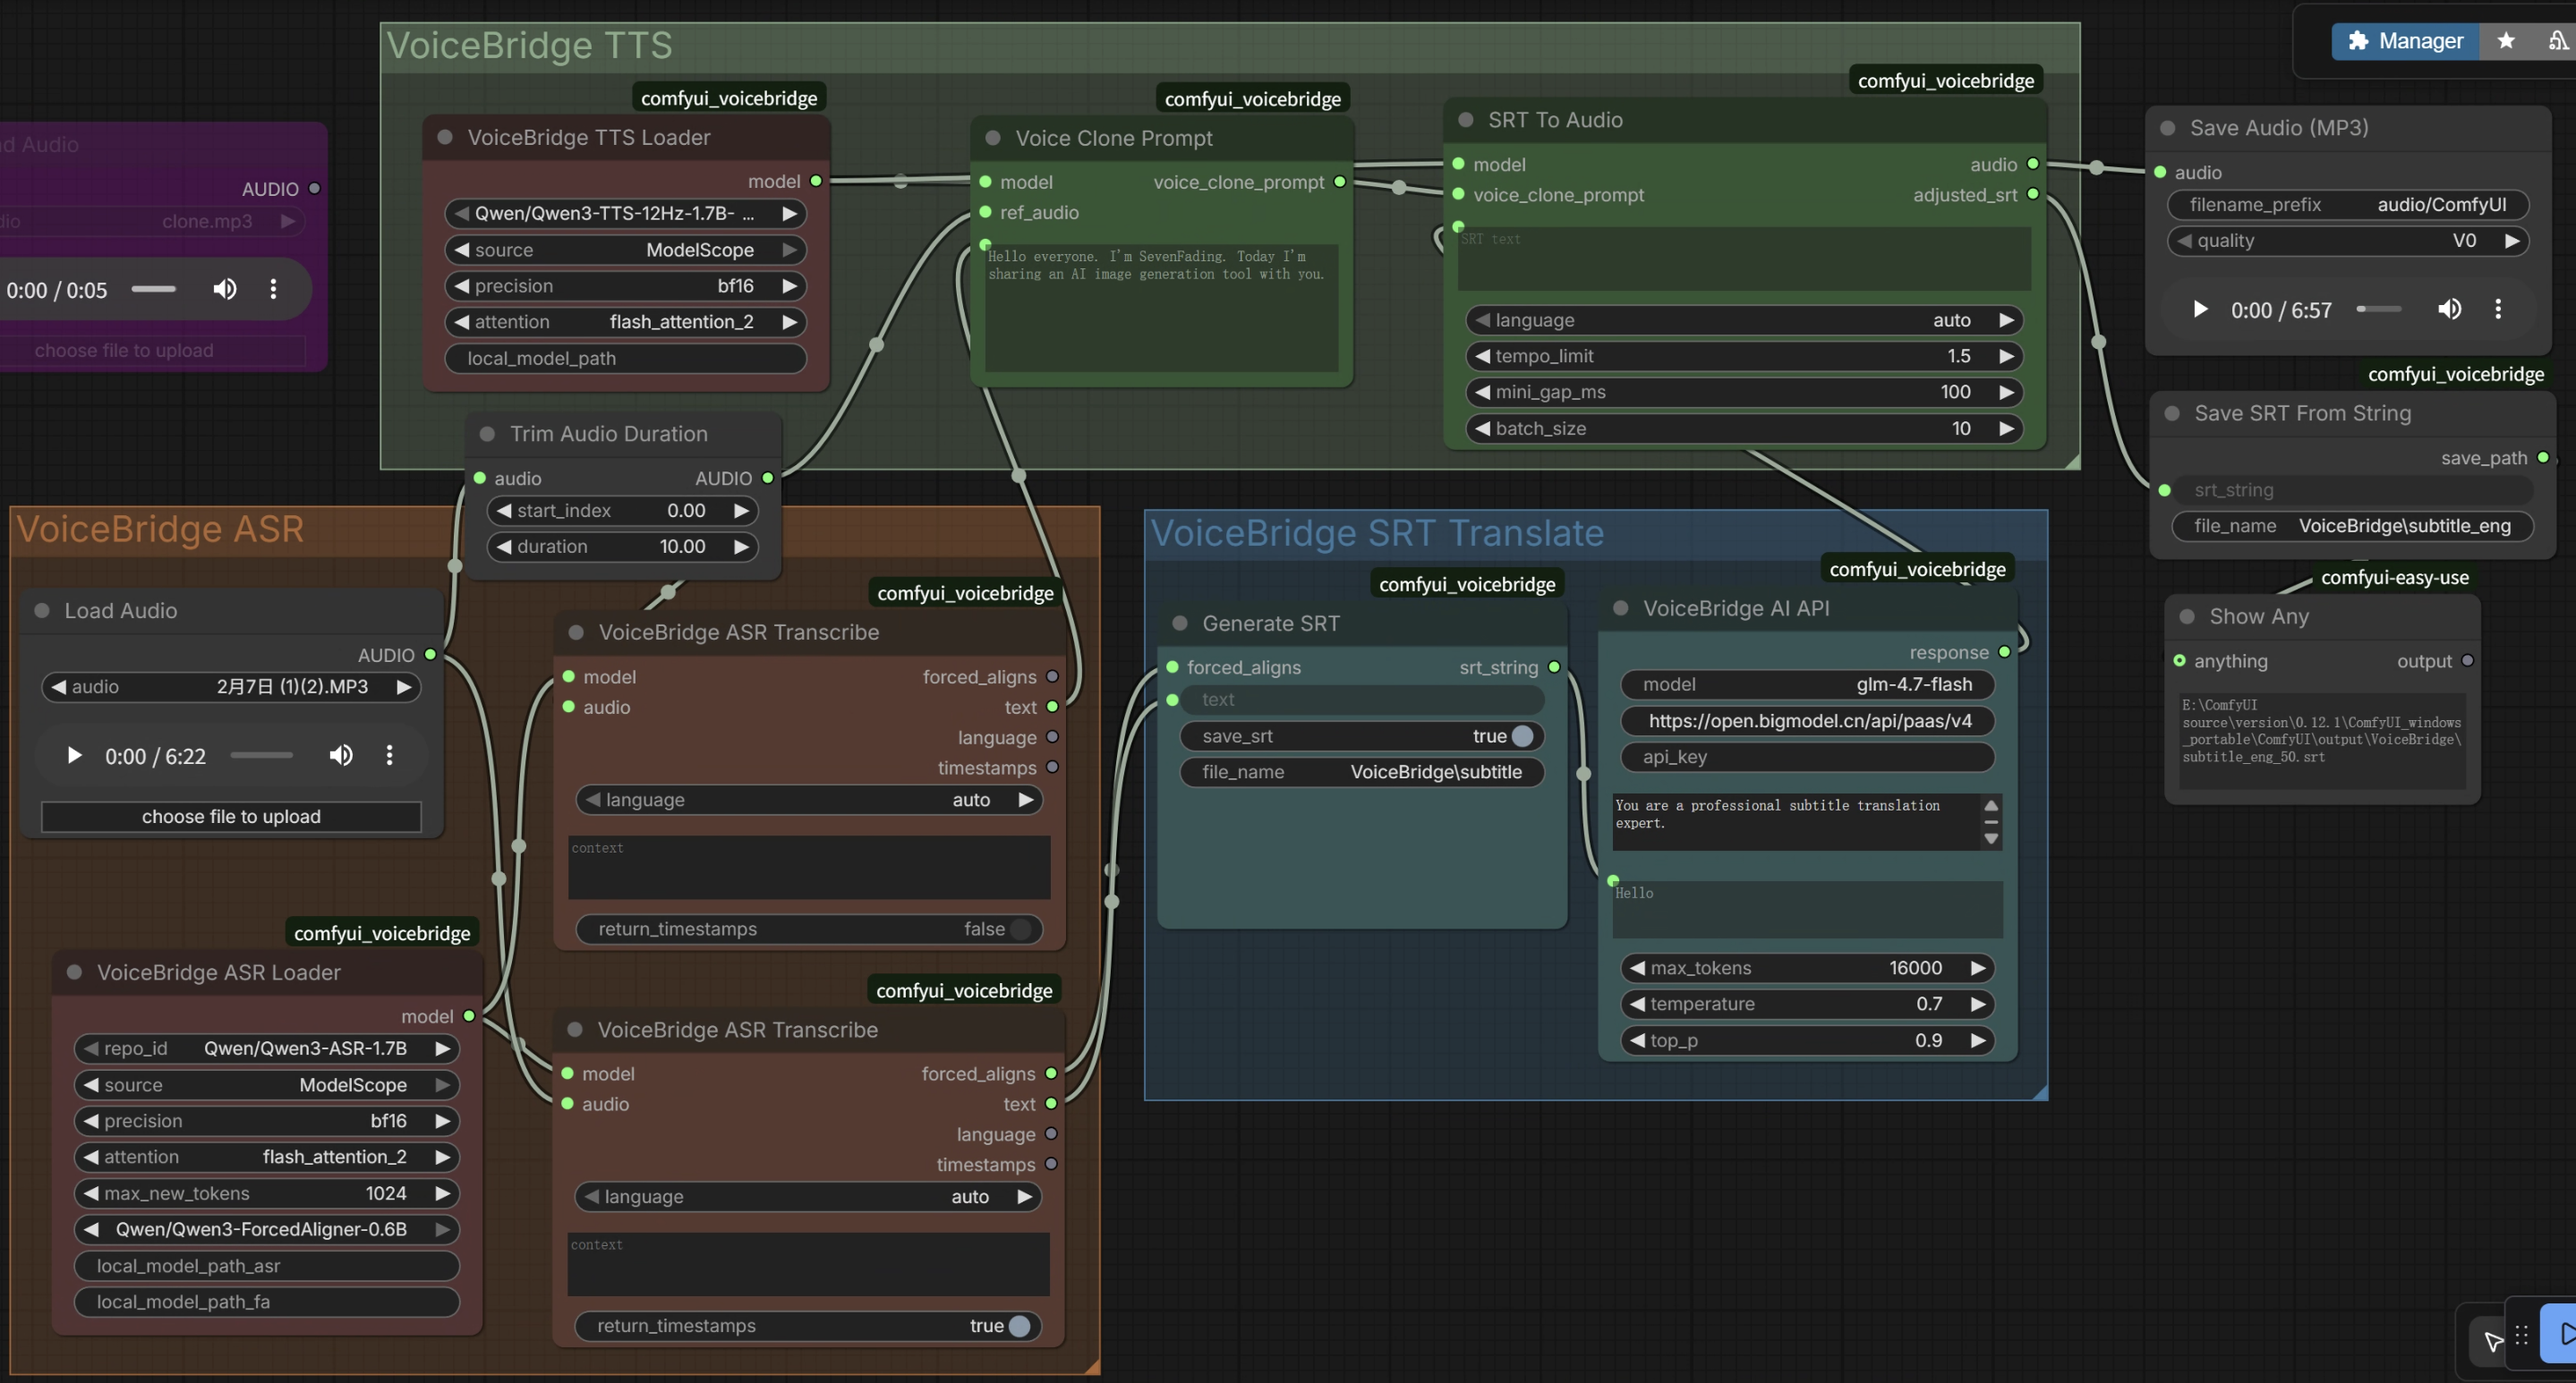
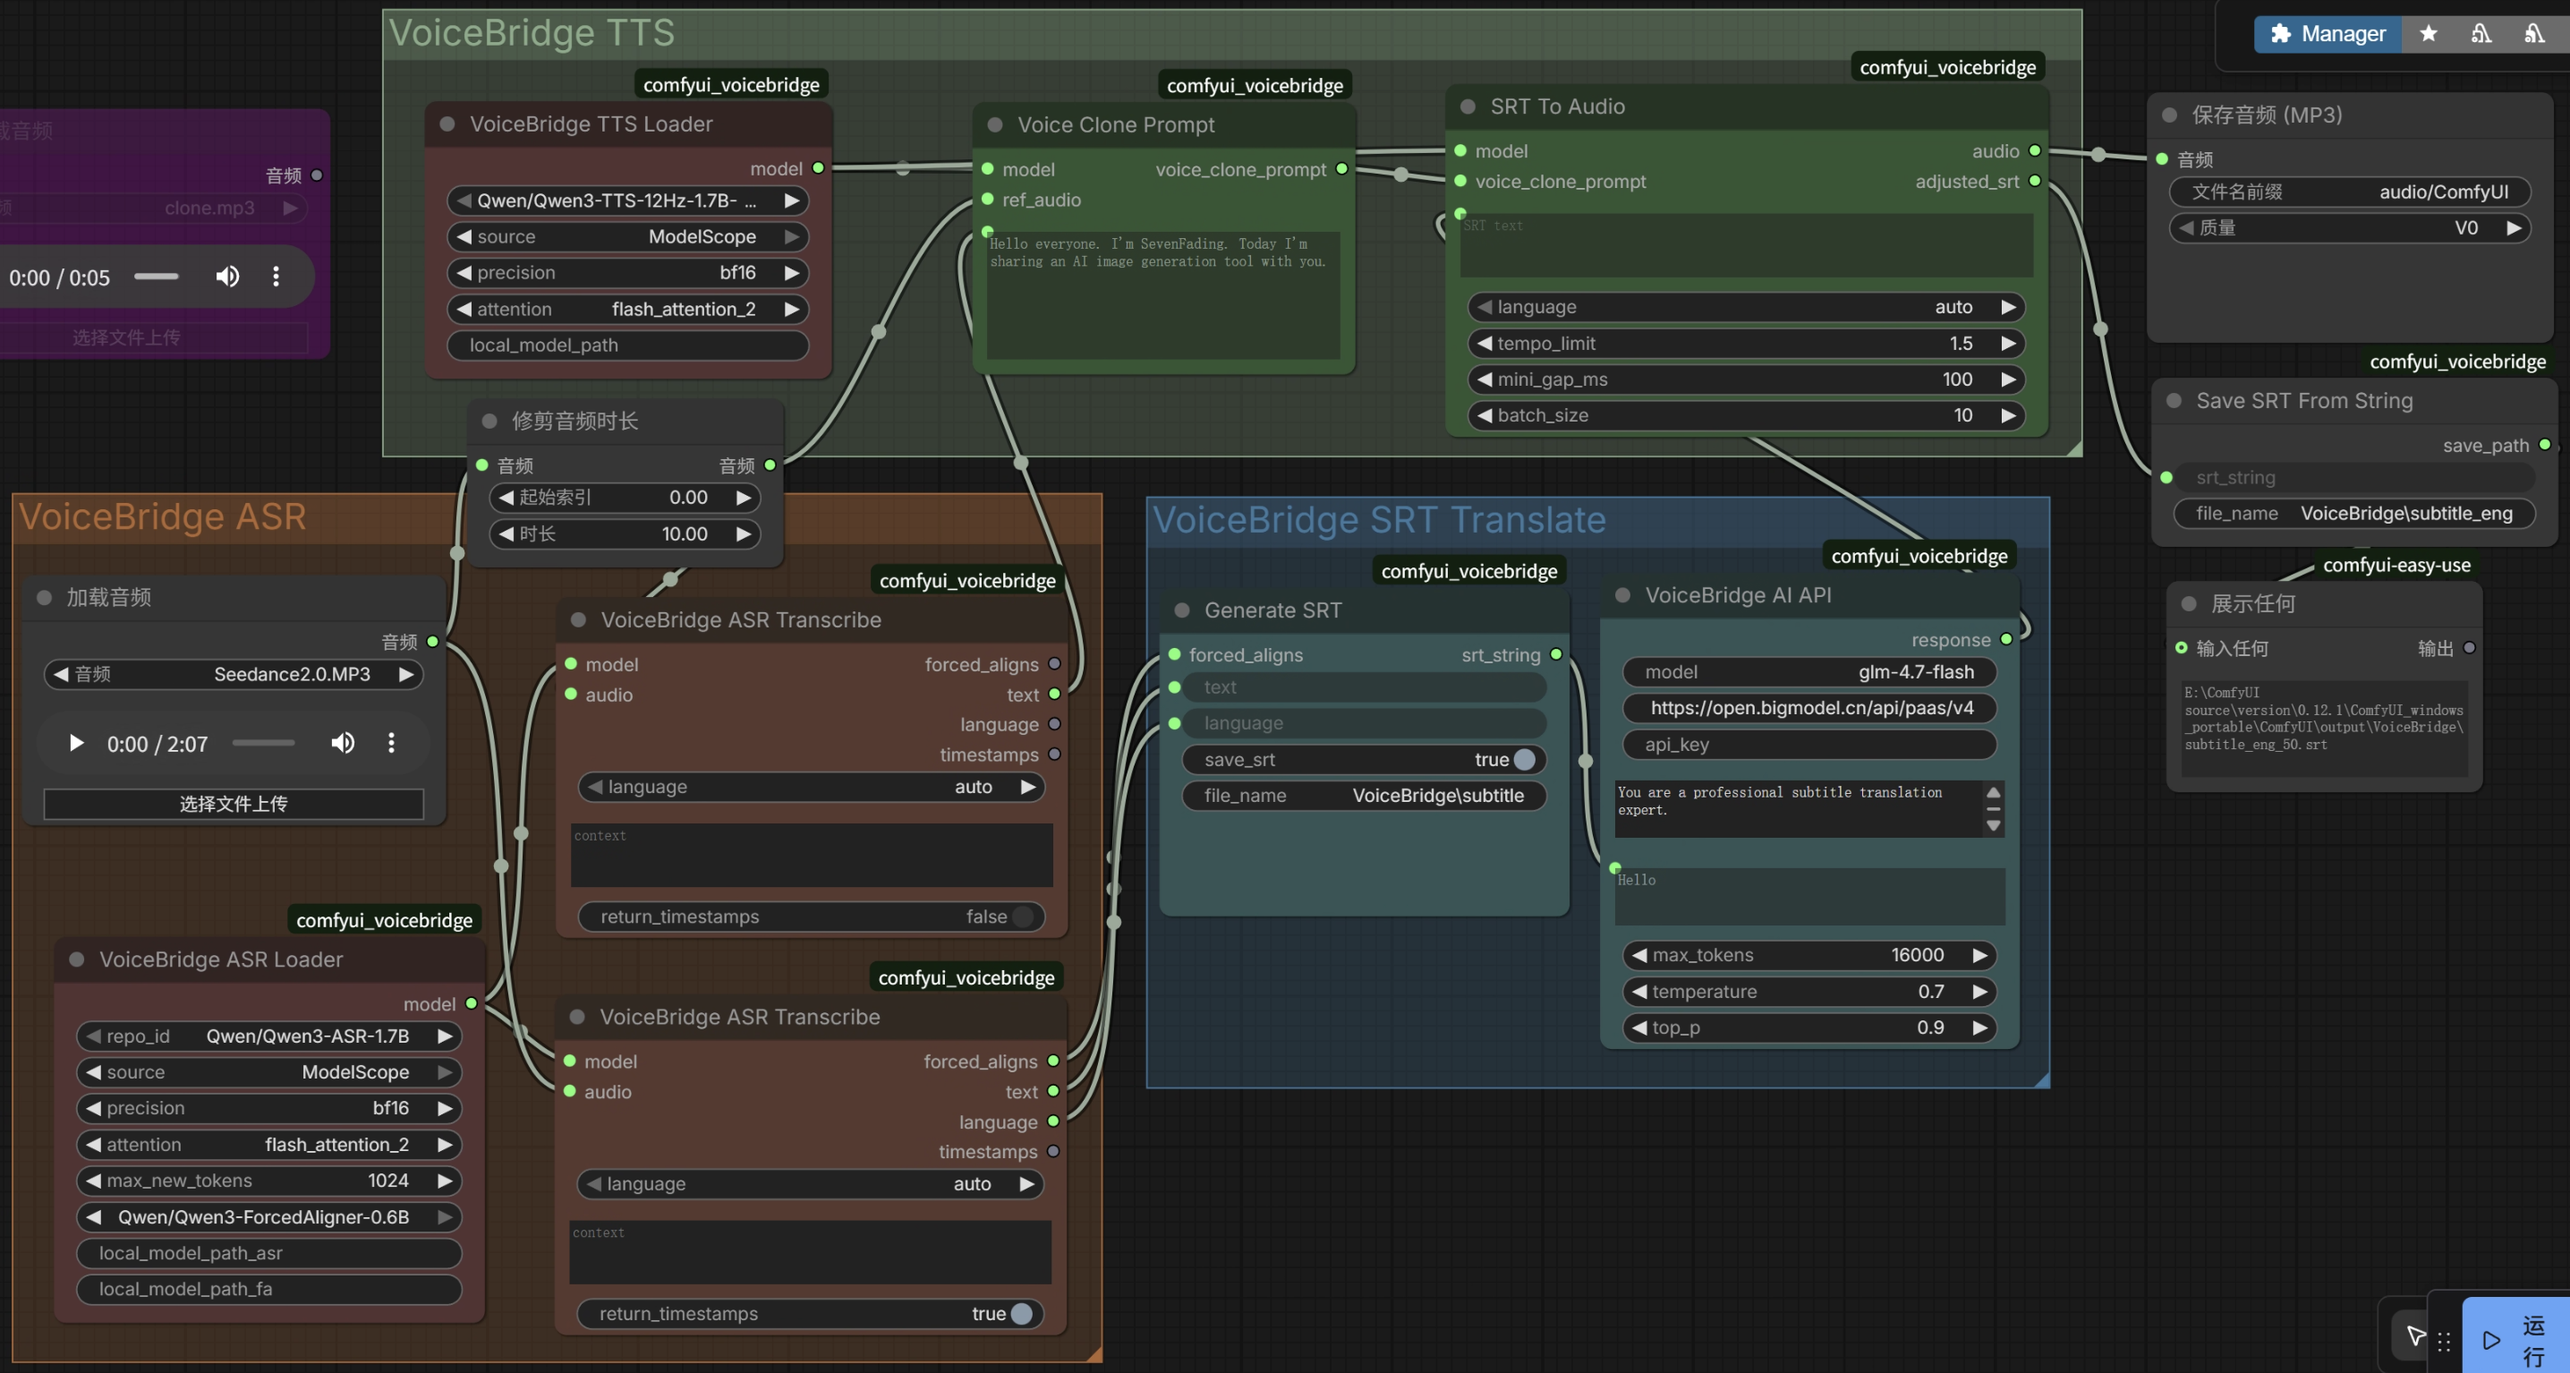
修复字幕分段问题
- 修复字幕分段问题
- 更新工作流
- v0.2.3

Changed region(s): [[0.0, 0.0, 1.0, 1.0], [0.9297, 0.9192, 1.0, 1.0], [0.9297, 0.4596, 0.9607, 0.4902]]

diff --git a/src/comfyui_voicebridge/nodes.py b/src/comfyui_voicebridge/nodes.py
@@ -352,7 +352,7 @@ class Qwen3ASRLoader:
         if precision == "bf16":
             if device.type == "mps":
                 dtype = torch.float16
-                print("[VoiceBridge] Note: Using fp16 on MPS (bf16 has limited support)")
+                print(f"[VoiceBridge] Note: Using fp16 on MPS (bf16 has limited support)")
             else:
                 dtype = torch.bfloat16
         elif precision == "fp16":
@@ -498,7 +498,7 @@ class Qwen3TTSLoader:
         if precision == "bf16":
             if device.type == "mps":
                 dtype = torch.float16
-                print("[VoiceBridge] Note: Using fp16 on MPS (bf16 has limited support)")
+                print(f"[VoiceBridge] Note: Using fp16 on MPS (bf16 has limited support)")
             else:
                 dtype = torch.bfloat16
         elif precision == "fp16":
@@ -569,7 +569,7 @@ class VoiceClonePrompt:
             ref_text=ref_text,
             x_vector_only_mode=False,
         )
-        print("[VoiceBridge] Voice Clone Prompt created successfully!")
+        print(f"[VoiceBridge] Voice Clone Prompt created successfully!")
         return (result,)
     
 class SRTToAudio:
@@ -620,7 +620,7 @@ class SRTToAudio:
             adjusted_srt: adjusted SRT string
         """
         if not srt_string or not srt_string.strip():
-            print("[VoiceBridge] Error: Empty SRT string provided")
+            print(f"[VoiceBridge] Error: Empty SRT string provided")
             return ({"waveform": np.array([[0.0]]), "sample_rate": 16000}, "")
         
         print(f"[VoiceBridge] Parsing SRT content ({len(srt_string)} chars)...")
@@ -628,7 +628,7 @@ class SRTToAudio:
         print(f"[VoiceBridge] Found {len(entries)} subtitle entries")
         
         if len(entries) == 0:
-            print("[VoiceBridge] Error: No valid subtitle entries found in SRT")
+            print(f"[VoiceBridge] Error: No valid subtitle entries found in SRT")
             return ({"waveform": np.array([[0.0]]), "sample_rate": 16000}, "")
         
         # 使用 ComfyUI 临时目录
@@ -640,7 +640,7 @@ class SRTToAudio:
         lang = LANGUAGE_MAP.get(language, "auto")
         
         try:
-            print("[VoiceBridge] Starting audio generation...")
+            print(f"[VoiceBridge] Starting audio generation...")
             for i in range(0, len(entries), batch_size):
                 batch = entries[i:i+batch_size]
                 texts = [e.text for e in batch]
@@ -663,14 +663,14 @@ class SRTToAudio:
                 
                 torch.cuda.empty_cache()
             
-            print("[VoiceBridge] Processing duration mismatches...")
+            print(f"[VoiceBridge] Processing duration mismatches...")
             self._process_duration(entries, temp_dir, tempo_limit, mini_gap_ms)
             
             last_entry = entries[-1]
             total_duration = last_entry.start_time_ms + last_entry.audio_duration_ms + 1000
             
             # Synthesize the final audio
-            print("[VoiceBridge] Merging audio files...")
+            print(f"[VoiceBridge] Merging audio files...")
             wav_tensor, sample_rate = merge_audio_files(entries, total_duration)
 
             # Prepare audio output in ComfyUI format
@@ -762,7 +762,7 @@ class SRTToAudio:
             
             print(f"[VoiceBridge]        -> New subtitle: {entry.start_time_ms}ms -> {entry.end_time_ms}ms")
 
-        print("[VoiceBridge] Cascading shifting") # 级联偏移
+        print(f"[VoiceBridge] Cascading shifting") # 级联偏移
         for idx in range(0, len(entries) - 1):
             subtitle_duration = entries[idx].end_time_ms - entries[idx].start_time_ms
             ms_to_next_subtitle = entries[idx+1].start_time_ms - entries[idx].end_time_ms
@@ -786,10 +786,13 @@ class SRTToAudio:
 
 # ---------------------------------------------------------------- Voice Bridge Linker -----------------------------------------------------------
 
-DELIMITERS = ['，', '。', '！', '？', '；', '：', 
-              ',',  '.',  '!',  '?',  ';',  ':', 
-              '\n', '\r', '\t'
-            ]
+# DELIMITERS = ['，', '。', '！', '？', '；', '：', 
+#               ',',  '.',  '!',  '?',  ';',  ':', 
+#               '\n', '\r', '\t'
+#             ]
+
+CN_DELIMITERS = ['，', '。', '！', '？', '；', '：',]
+EN_DELIMITERS = [',', '.', '!', '?', ';', ':',]
 
 
 
@@ -816,11 +819,13 @@ def get_seg_timestamps(segments, forced_aligns):
     word_index = 0
 
     for i, segment in enumerate(segments):
+        tokens = re.findall(r'[\u4e00-\u9fff]+|[a-zA-Z0-9]+|[^\\s\u4e00-\u9fff a-zA-Z0-9]', segment)
         separators = r'[,\.\?!，。！？;；:：、\s\/\\\-—_()（）\[\]【】《》<>"''‘’“”=+*&#@%$^|~`]+'
-        word_list = [t for t in re.split(separators, segment) if t]
+        word_list = [t for t in tokens if t not in separators]
 
         start_char = word_list[0][0]
         end_char = word_list[-1][-1]
+        print(word_list)
 
         # ------ check if it's english word ------ #
         if is_english_char(start_char) and forced_aligns[word_index].text == word_list[0]:
@@ -857,6 +862,96 @@ def get_seg_timestamps(segments, forced_aligns):
         srt_time_stamps.append((start_time, end_time))
         word_index += 1
     return srt_time_stamps
+
+def get_seg_timestamps_2(segments, forced_aligns):
+    segments_one_word = []
+    segments_word_list = []
+
+    for i, segment in enumerate(segments):
+        separators = r'[,\.\?!，。！？;；:：、\s\/\\\-—_()（）\[\]【】《》<>"''‘’“”=+*&#@%$^|~`]+'
+        word_list = [t for t in re.split(separators, segment) if t]
+        final_word_list = []
+
+        for word in word_list:
+            tokens = re.findall(r'[\u4e00-\u9fff]+|[a-zA-Z0-9]+|[^\\s\u4e00-\u9fff a-zA-Z0-9]', word)
+            final_word_list.extend(tokens)
+
+        start_char = final_word_list[0][0]
+        end_char = final_word_list[-1][-1]
+
+        if is_english_char(start_char): # 因为已经使用了token分词，所有如果是英文字母的话，取出来一定是单词或者是单个英文字母，可以和fa中的text对应上。
+            start_char = final_word_list[0]
+        if is_english_char(end_char):
+            end_char = final_word_list[-1]
+
+
+        segments_word_list.append(final_word_list)
+        print(i, "final_word_list", final_word_list)
+
+        if end_char == start_char == segment:
+            segments_one_word.append(True)
+        else:
+            segments_one_word.append(False)
+
+    srt_time_stamps = []
+    # word_index = 0
+    forced_aligns_cp = forced_aligns
+    for i, segment in enumerate(segments):
+        if segments_one_word[i]:
+            srt_time_stamps.append((forced_aligns_cp[0].start_time, forced_aligns_cp[0].end_time))
+            forced_aligns_cp = forced_aligns_cp[1:]
+            # word_index = 0
+            continue
+
+        start_time = forced_aligns_cp[0].start_time
+        end_time = None
+
+
+        
+        # print("i=", i)
+        # print("segments_word_list[i]", segments_word_list[i])
+        end_char = segments_word_list[i][-1][-1] # 取最后一个word的最后一个字符
+        if is_english_char(end_char): # 检查是否为英文
+            end_char = segments_word_list[i][-1]
+
+        while not end_time:
+            end_char_count = segment.count(end_char)
+
+            # print("end_char", end_char)
+            # print("end_char_count", end_char_count)
+            count_char = 1
+            # print("forced_aligns_cp[0]", forced_aligns_cp[0].text)
+            # print("len(forced_aligns_cp)", len(forced_aligns_cp))
+            for word_jdx in range(0, len(forced_aligns_cp)): # 从前往后检索
+                if forced_aligns_cp[word_jdx].text == end_char:
+                    if count_char < end_char_count:
+                        # 找到了一样的，但不是最后那个
+                        count_char += 1
+                        # word_index += 1
+                    else:
+                        # 找到了最后一个字符的force align了
+                        end_time = forced_aligns_cp[word_jdx].end_time
+                        forced_aligns_cp = forced_aligns_cp[word_jdx+1:]
+                        # word_index = 0
+                        break
+
+            # 如果检索完整个forced aligns都没有找到，说明匹配失败
+            if not end_time:
+                if len(segments_word_list[i]) ==1:
+                    # 整一段字幕，没有一个字符能在force aligns中找到匹配的。则将第一个字符的end time作为介绍 (几乎不可能发生)
+                    raise Exception("No match found for segment: ", segment, "Please Report this issue in Github https://github.com/YanTianlong-01/comfyui_voicebridge")
+                    end_time = forced_aligns_cp[0].end_time
+                    pass
+                # 把最后两个字符合并起来，作为新的最后一个字符，重新检索
+              
+                segments_word_list[i] = segments_word_list[i][:-2] + [segments_word_list[i][-2]+segments_word_list[i][-1]]
+                end_char = segments_word_list[i][-1]
+
+        srt_time_stamps.append((start_time, end_time))
+    return srt_time_stamps
+
+
+
 
 def adjust_srt_timestamps(segements, srt_time_stamps):
     '''
@@ -931,8 +1026,10 @@ class GenerateSRT:
     def INPUT_TYPES(s):
         return {
             "required": {
-                "text": ("STRING",),
                 "forced_aligns" : ("LIST",),
+                "text": ("STRING",),
+                "language": ("STRING",)
+                
             },
             "optional": {
                 "save_srt": ("BOOLEAN", {"default": True}),
@@ -945,22 +1042,24 @@ class GenerateSRT:
     FUNCTION = "generate_srt"
     CATEGORY = "VoiceBridge"
 
-    def generate_srt(self, text, forced_aligns, save_srt=True, file_name="VoiceBridge\subtitle"):
+    def generate_srt(self, forced_aligns, text, language, save_srt=True, file_name="VoiceBridge\subtitle"):
 
         output_dir = folder_paths.get_output_directory()
         save_path = get_unique_filepath(output_dir, file_name, ".srt")
 
+        if language == "Chinese":
+            result_segments = split_string_regex(text, CN_DELIMITERS)
+        else:
+            result_segments = split_string_regex(text, EN_DELIMITERS)
 
-        result_segments = split_string_regex(text, DELIMITERS)
-
-        srt_time_stamps = get_seg_timestamps(result_segments, forced_aligns)
+        srt_time_stamps = get_seg_timestamps_2(result_segments, forced_aligns)
 
         adjust_segments, adjust_srt_time_stamps = adjust_srt_timestamps(result_segments, srt_time_stamps)
 
         srt_string = generate_srt_string(adjust_segments, adjust_srt_time_stamps)
         if save_srt:
             save_srt_file(srt_string, save_path)
-            print("[VoiceBridge] srt file save to path: ", save_path)
+            print(f"[VoiceBridge] srt file save to path: ", save_path)
 
         return (srt_string,)
     
@@ -984,7 +1083,7 @@ class SaveSRTFromString:
         save_path = get_unique_filepath(output_dir, file_name, ".srt")
 
         save_srt_file(srt_string, save_path)
-        print("[VoiceBridge] srt file save to path: ", save_path)
+        print(f"[VoiceBridge] srt file save to path: ", save_path)
 
         return (save_path,)
 
